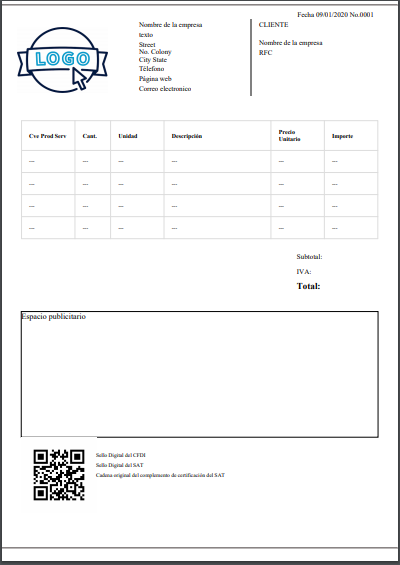
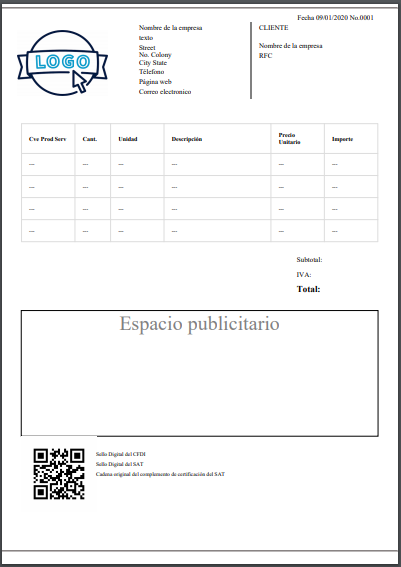
Creación de template 2 y 3 y se añadio la opción de seleccionar plantilla en configuración

diff --git a/public/js/view_configuration.js b/public/js/view_configuration.js
@@ -28,3 +28,7 @@ $(document).ready(function(){
       }
     });
 });
+
+function selectTemplate(button){
+  alert(button);
+}

diff --git a/resources/views/cfdi/template3.blade.php b/resources/views/cfdi/template3.blade.php
@@ -8,7 +8,7 @@
             }
             header {
                 position: fixed;
-                top: 0cm;
+                top: 1em;
                 left: 0cm;
                 right: 0cm;
                 height: 1cm;
@@ -37,27 +37,34 @@
               font-size: 14px;
               color: black;
             }
+            h3{
+              color: #E32121;
+              line-height: 15px;
+            }
+            h5{
+              line-height: 15px;
+            }
             main{
-              padding-top: 15em;
+              padding-top: 22em;
               width: 90%;
               margin: auto;
-            }
-            table, td, th {
-              border: 1px solid #ddd;
-              text-align: left;
             }
             table {
               border-collapse: collapse;
               width: 100%;
             }
+
             th, td {
-              padding: 15px;
+              text-align: left;
+              padding: 8px;
             }
-            th{
+
+            tr:nth-child(even){background-color: #f2f2f2}
+
+            th {
+              background-color: #5698E8;
+              color: black;
               font-size: 12px;
-            }
-            td{
-              font-size: 11px;
             }
             .cod{
               width: 15%;
@@ -79,36 +86,30 @@
             }
             .logo{
               padding-top: 1em;
-              padding-left: 2em;
+              margin-left: 5em;
               float: left;
             }
             .senderinf{
               float: left;
               padding-left: 4em;
             }
-            .customerinf{
-              padding-left: 1em;
-            }
-            .customer{
-              margin-top: 1em;
+            .subheader{
+              border: 1px solid #ddd;
+              height: 130px;
+              width: 90%;
+              margin: auto;
             }
             .date{
               color: black;
-              text-align: right;
-              padding-right: 3em;
+              text-align: center;
+              margin-left: 2em;
             }
+
             .address{
               line-height: 15px;
             }
             .group-address{
               margin-top: 3px;
-            }
-            .vl{
-              border-left: 2px solid gray;
-              height: 120px;
-              float: left;
-              padding-top: 2em;
-              margin-left: 6em;
             }
             .balances{
               float: right;
@@ -123,9 +124,13 @@
               font-weight: bold;
             }
             .commercial{
-              margin-top: 8em;
-              height: 250px;
+              margin-top: 3em;
+              height: 180px;
               border: 1px solid black;
+              text-align: center;
+              font-family: Arial;
+              font-size: 40px;
+              color: gray;
             }
             .codeqr{
               float: left;
@@ -137,15 +142,27 @@
             .titlestamp{
               font-size: 11px;
             }
+            .customer{
+              margin-left: 1em;
+              margin-top: 1em;
+              float: left;
+              width: 50%;
+            }
+            .taxinf{
+              margin-left: 1em;
+              margin-top: 0.4em;
+              float: left;
+            }
+            .inf{
+              font-size: 11px;
+              line-height: 15px;
+            }
         </style>
     </head>
     <body>
         <!-- Define header and footer blocks before your content -->
         <header>
             <hr></hr>
-            <div class="date">
-              <label>Fecha 09/01/2020 No.0001</label>
-            </div>
             <div class="logo">
               <img src="storage/Company/DYC160316AT6/Brand/brandDYC160316AT6.png" width="180" height="130">
             </div>
@@ -161,12 +178,28 @@
               <label>Página web</label>
               <label>Correo electronico</label>
             </div>
-            <div class="vl"></div>
-            <div class="customerinf">
-              <label>CLIENTE</label>
+            <div class="date">
+              <h3>Factura</h3>
+              <h3>000383</h3>
+              <h5>Fecha y hora de Expedición:</h5>
+            </div><br>
+            <div class="subheader">
               <div class="customer">
-                <label>Nombre de la empresa</label>
-                <label>RFC</label>
+                <label>CLIENTE</label>
+                <div class="customerinf">
+                  <label>Razón social del cliente</label>
+                  <label>RFC</label>
+                </div>
+              </div>
+              <div class="taxinf">
+                <label class="inf">Folio Fiscal: </label>
+                <label class="inf">Certificado del CSD: </label>
+                <label class="inf">Certificado del SAT: </label>
+                <label class="inf">Fecha de Certificación: </label>
+                <label class="inf">Régimen Fiscal: </label>
+                <label class="inf">Método de Pago: </label><label id="methodpay"></label>
+                <label class="inf">Uso de CFDI: </label>
+                <label class="inf">Forma de Pago: </label><label id="awaypay"></label>
               </div>
             </div>
         </header>

diff --git a/resources/views/cfdi/template2.blade.php b/resources/views/cfdi/template2.blade.php
@@ -8,7 +8,7 @@
             }
             header {
                 position: fixed;
-                top: 1em;
+                top: 0cm;
                 left: 0cm;
                 right: 0cm;
                 height: 1cm;
@@ -37,15 +37,8 @@
               font-size: 14px;
               color: black;
             }
-            h3{
-              color: #E32121;
-              line-height: 15px;
-            }
-            h5{
-              line-height: 15px;
-            }
             main{
-              padding-top: 22em;
+              padding-top: 15em;
               width: 90%;
               margin: auto;
             }
@@ -86,30 +79,36 @@
             }
             .logo{
               padding-top: 1em;
-              margin-left: 5em;
+              padding-left: 2em;
               float: left;
             }
             .senderinf{
               float: left;
               padding-left: 4em;
             }
-            .subheader{
-              border: 1px solid #ddd;
-              height: 130px;
-              width: 90%;
-              margin: auto;
+            .customerinf{
+              padding-left: 1em;
+            }
+            .customer{
+              margin-top: 1em;
             }
             .date{
               color: black;
-              text-align: center;
-              margin-left: 2em;
+              text-align: right;
+              padding-right: 3em;
             }
-
             .address{
               line-height: 15px;
             }
             .group-address{
               margin-top: 3px;
+            }
+            .vl{
+              border-left: 2px solid gray;
+              height: 120px;
+              float: left;
+              padding-top: 2em;
+              margin-left: 6em;
             }
             .balances{
               float: right;
@@ -125,7 +124,7 @@
             }
             .commercial{
               margin-top: 3em;
-              height: 180px;
+              height: 250px;
               border: 1px solid black;
               text-align: center;
               font-family: Arial;
@@ -142,27 +141,15 @@
             .titlestamp{
               font-size: 11px;
             }
-            .customer{
-              margin-left: 1em;
-              margin-top: 1em;
-              float: left;
-              width: 50%;
-            }
-            .taxinf{
-              margin-left: 1em;
-              margin-top: 0.4em;
-              float: left;
-            }
-            .inf{
-              font-size: 11px;
-              line-height: 15px;
-            }
         </style>
     </head>
     <body>
         <!-- Define header and footer blocks before your content -->
         <header>
             <hr></hr>
+            <div class="date">
+              <label>Fecha 09/01/2020 No.0001</label>
+            </div>
             <div class="logo">
               <img src="storage/Company/DYC160316AT6/Brand/brandDYC160316AT6.png" width="180" height="130">
             </div>
@@ -178,28 +165,12 @@
               <label>Página web</label>
               <label>Correo electronico</label>
             </div>
-            <div class="date">
-              <h3>Factura</h3>
-              <h3>000383</h3>
-              <h5>Fecha y hora de Expedición:</h5>
-            </div><br>
-            <div class="subheader">
+            <div class="vl"></div>
+            <div class="customerinf">
+              <label>CLIENTE</label>
               <div class="customer">
-                <label>CLIENTE</label>
-                <div class="customerinf">
-                  <label>Razón social del cliente</label>
-                  <label>RFC</label>
-                </div>
-              </div>
-              <div class="taxinf">
-                <label class="inf">Folio Fiscal: </label>
-                <label class="inf">Certificado del CSD: </label>
-                <label class="inf">Certificado del SAT: </label>
-                <label class="inf">Fecha de Certificación: </label>
-                <label class="inf">Régimen Fiscal: </label>
-                <label class="inf">Método de Pago: </label><label id="methodpay"></label>
-                <label class="inf">Uso de CFDI: </label>
-                <label class="inf">Forma de Pago: </label><label id="awaypay"></label>
+                <label>Nombre de la empresa</label>
+                <label>RFC</label>
               </div>
             </div>
         </header>

diff --git a/resources/views/layouts/app.blade.php b/resources/views/layouts/app.blade.php
@@ -13,18 +13,11 @@
     <!-- icon -->
     <link rel="icon" type="image/png" href="{{asset('img/icon.png')}}" />
 
-    <!-- Fonts -->
-    <link href="{{ asset('vendor/font-awesome/fonts/familyNunito.css') }}" rel="stylesheet">
     <link href="{{ asset('vendor/bootstrap/css/bootstrap.min.css')}}" rel="stylesheet">
-    <link href="{{ asset('vendor/metisMenu/metisMenu.min.css')}}" rel="stylesheet">
     <link href="{{ asset('dist/css/sb-admin-2.css')}}" rel="stylesheet">
-    <link href="{{ asset('dist/css/validate.css')}}" rel="stylesheet"><!-- CSS para validación con JQuery -->
-    <link href="{{ asset('vendor/morrisjs/morris.css')}}" rel="stylesheet">
+    <link href="{{ asset('dist/css/validate.css')}}" rel="stylesheet">
     <link href="{{ asset('vendor/font-awesome/css/font-awesome.min.css')}}" rel="stylesheet" type="text/css">
-    <link href="{{ asset('dist/css/select2.css')}}" rel="stylesheet">
-    <link href="{{ asset('vendor/datatables/css/dataTables.bootstrap4.css')}}" rel="stylesheet">
     <link href="{{ asset('css/nv-sb.css')}}" rel="stylesheet">
-    <link href="{{asset('vendor/datatables-responsive/dataTables.responsive.css')}}" rel="stylesheet">
     <link href="{{ asset('css/content.css')}}" rel="stylesheet">
     <link href="{{ asset('css/layout.css')}}" rel="stylesheet">
     <link href="{{ asset('css/forms.css')}}" rel="stylesheet">

diff --git a/resources/views/config/create.blade.php b/resources/views/config/create.blade.php
@@ -26,6 +26,23 @@
             </div>
             <input class="btn btn-primary" type="submit" value="Guardar">
           </form>
+          <div class="templates">
+            <label>Selecciona una plantilla para tus facturas:</label>
+            <div class="row">
+              <div class="col">
+                <img src="img/Template1.png" width="250">
+                <button type="button" class="btn btn-primary" onclick="selectTemplate(this);">Seleccionar</button>
+              </div>
+              <div class="col">
+                <img src="img/Template2.png" width="250">
+                <button type="button" class="btn btn-primary">Seleccionar</button>
+              </div>
+              <div class="col">
+                <img src="img/Template3.png" width="250">
+                <button type="button" class="btn btn-primary">Seleccionar</button>
+              </div>
+            </div>
+          </div>
         </div>
       </div>
     </div>

diff --git a/app/Http/Controllers/CfdiController.php b/app/Http/Controllers/CfdiController.php
@@ -70,8 +70,8 @@ class CfdiController extends Controller
 
     public function printCFDI(){
       $ad="texto";
-      $pdf = \PDF::loadView('cfdi/newcfdi',compact('ad'));
-      return $pdf->download('newcfdi.pdf');
+      $pdf = \PDF::loadView('cfdi/template3',compact('ad'));
+      return $pdf->download('template3.pdf');
     }
 
     /**
